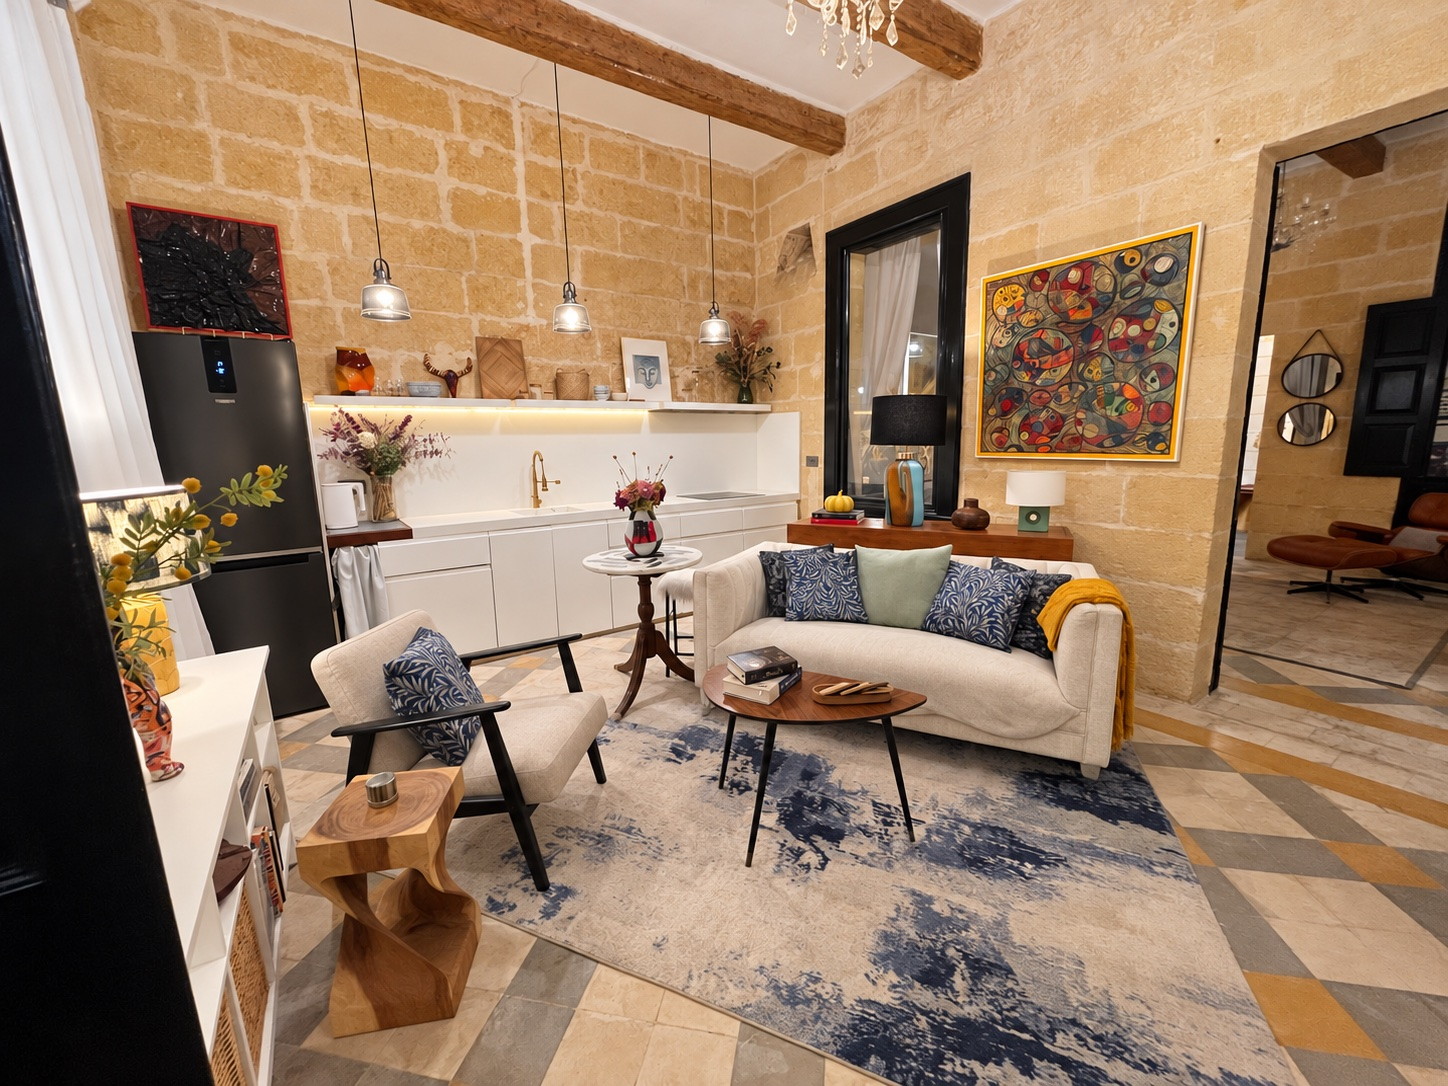
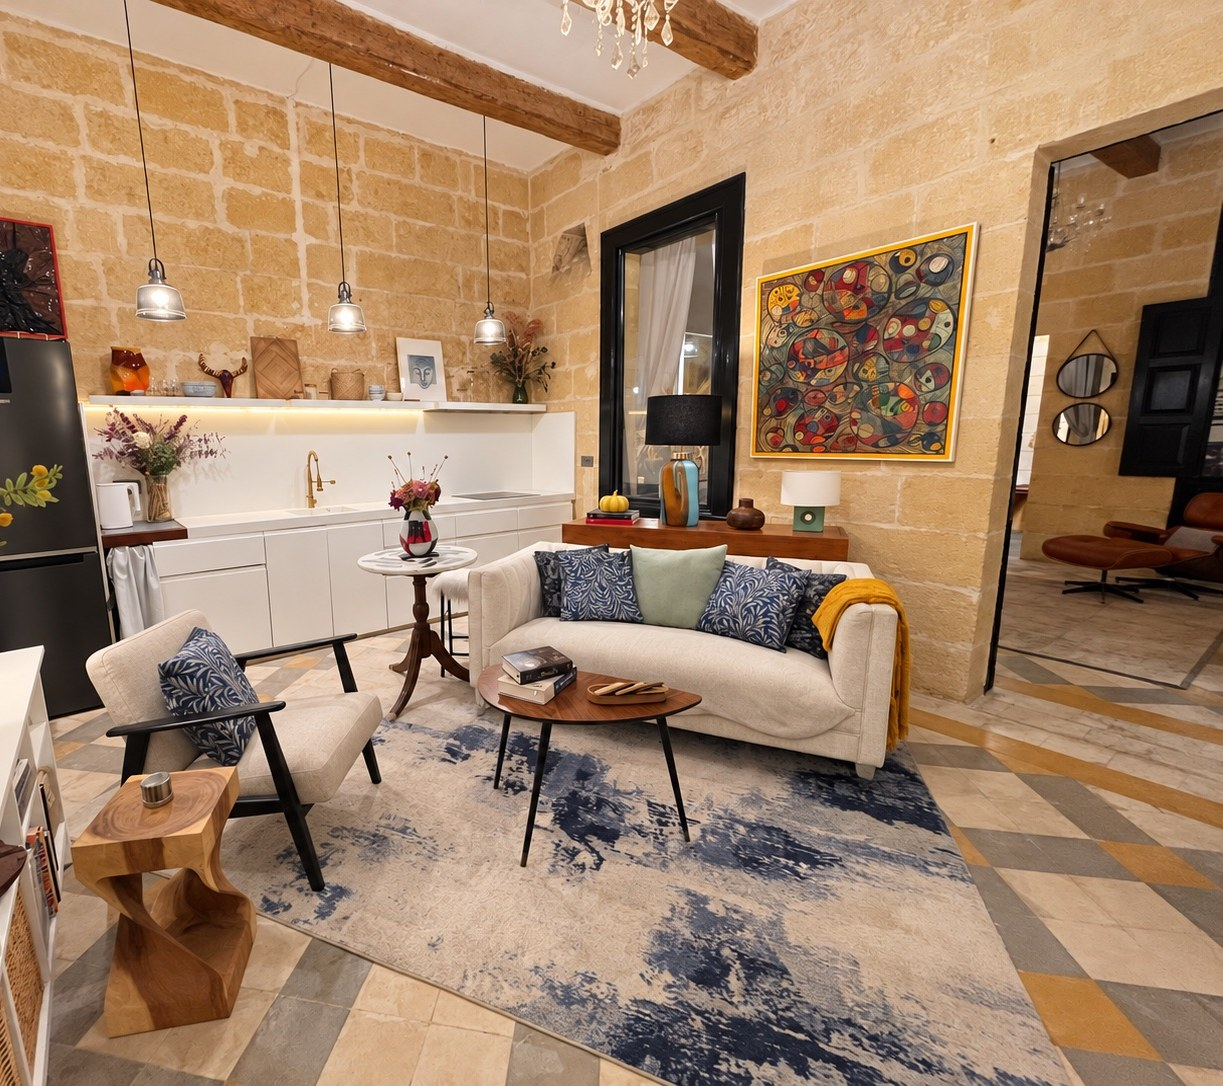
content: crop the door frame off the left of the hero photo

diff --git a/index.html b/index.html
@@ -31,7 +31,7 @@
 
   <main>
     <figure class="hero wrap">
-      <img src="/assets/photo-01-hero-kitchen-lounge-retouched.jpg" width="1450" height="1086" alt="Kitchen and lounge: limestone walls, timber beams, a white sofa and a large abstract painting">
+      <img src="/assets/photo-01-hero-kitchen-lounge-retouched.jpg?v=2" width="1223" height="1086" alt="Kitchen and lounge: limestone walls, timber beams, a white sofa and a large abstract painting">
       <figcaption>Kitchen and lounge</figcaption>
     </figure>
 
@@ -89,7 +89,7 @@
 
       <footer class="foot">
         <span>Archbishop Street · Valletta · Malta</span>
-        <span class="deploy-stamp">2026-11-12 14:48 UTC</span>
+        <span class="deploy-stamp">2026-11-17 12:31 UTC</span>
       </footer>
     </div>
   </main>
